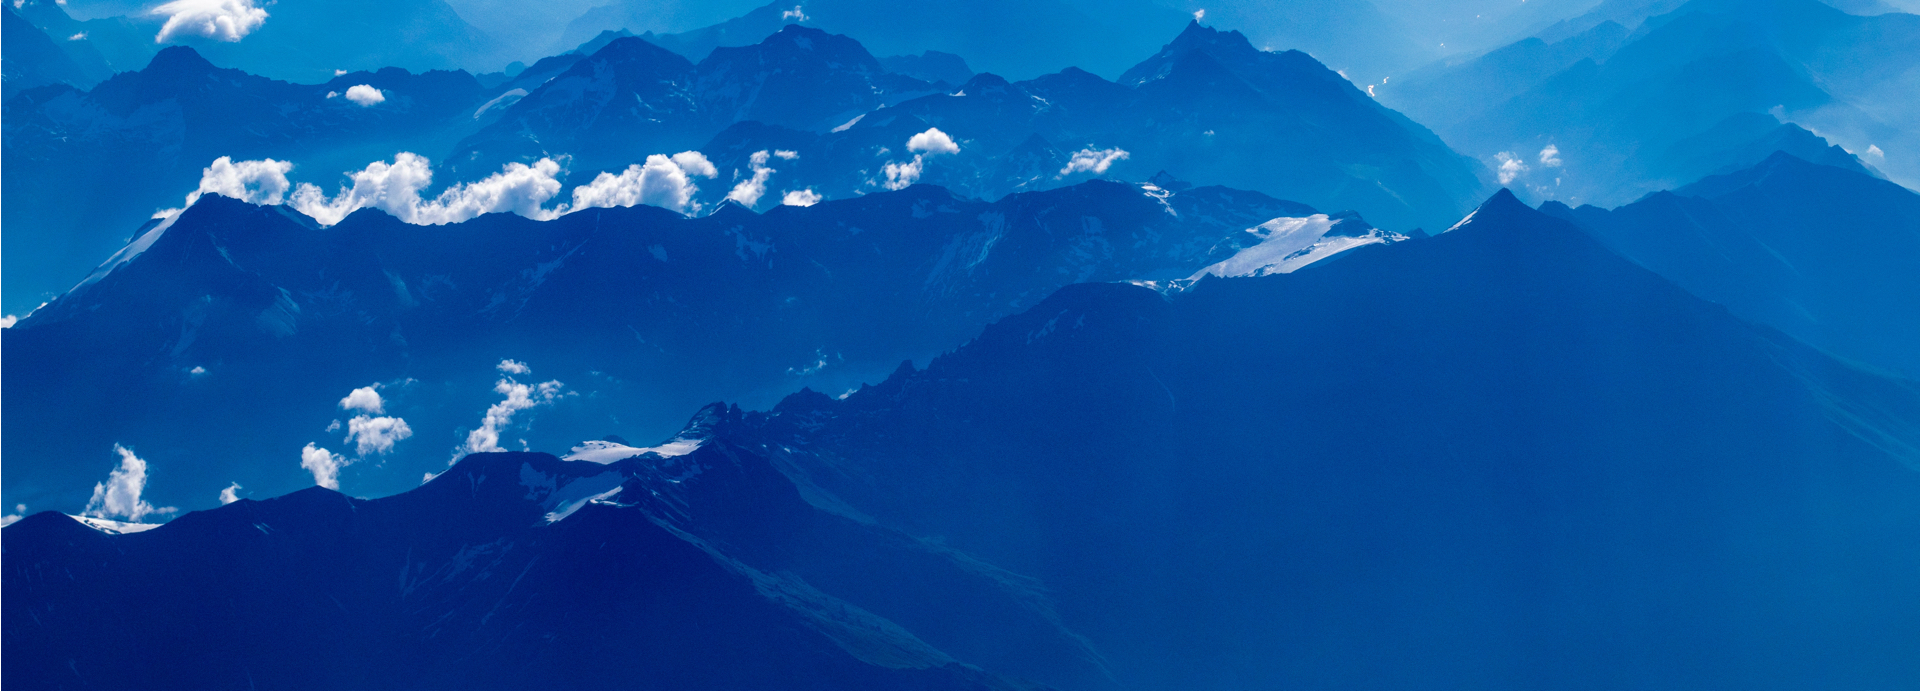
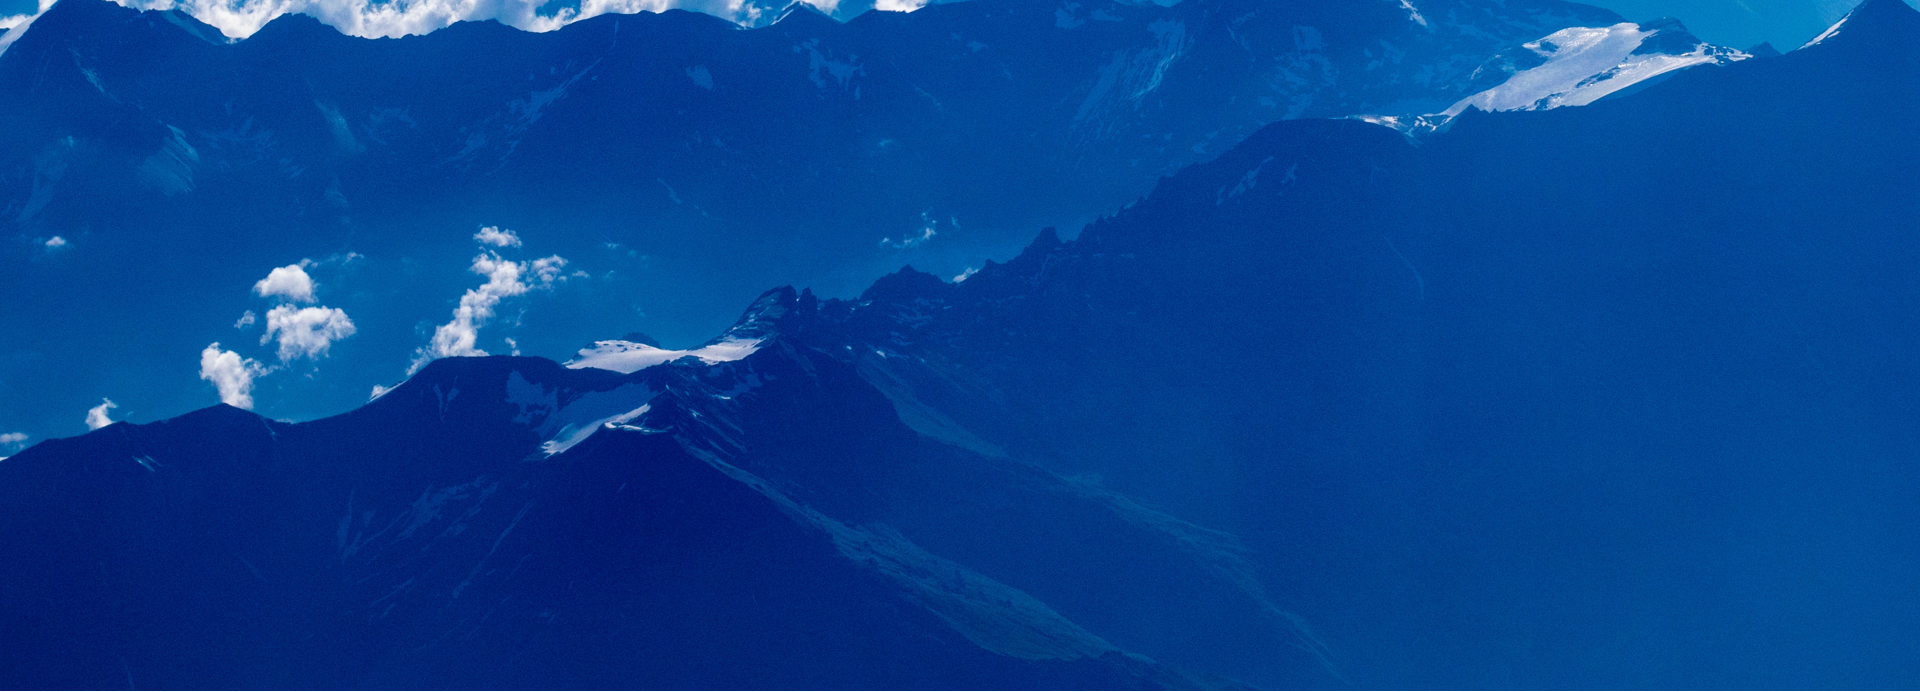
Responsibity adjusted

diff --git a/stylesheets/css/core-min.css b/stylesheets/css/core-min.css
@@ -1,1 +1,1 @@
-html,body,div,span,applet,object,iframe,h1,h2,h3,h4,h5,h6,p,blockquote,pre,a,abbr,acronym,address,big,cite,code,del,dfn,em,img,ins,kbd,q,s,samp,small,strike,strong,sub,sup,tt,var,b,u,i,center,dl,dt,dd,ol,ul,li,fieldset,form,label,legend,table,caption,tbody,tfoot,thead,tr,th,td,article,aside,canvas,details,embed,figure,figcaption,footer,header,hgroup,menu,nav,output,ruby,section,summary,time,mark,audio,video{margin:0;padding:0;border:0;font-size:100%;font:inherit;vertical-align:baseline}article,aside,details,figcaption,figure,footer,header,hgroup,menu,nav,section{display:block}body{line-height:1}ol,ul{list-style:none}blockquote,q{quotes:none}blockquote:before,blockquote:after,q:before,q:after{content:'';content:none}table{border-collapse:collapse;border-spacing:0}@font-face{font-family:'Roboto Condensed';src:url("RobotoCondensed-Regular.woff2") format("woff2"),url("RobotoCondensed-Regular.woff") format("woff");font-weight:normal;font-style:normal}@font-face{font-family:'Roboto Condensed';src:url("RobotoCondensed-Bold.woff2") format("woff2"),url("RobotoCondensed-Bold.woff") format("woff");font-weight:bold;font-style:normal}hr{width:65%;border-top:1px solid #FFF;border-bottom:none}.navBarDD{position:fixed;top:74px;box-sizing:border-box;border-left:1px solid #23272E;border-bottom:1px solid #23272E;border-right:1px solid #23272E;text-transform:capitalize;display:none}.navBarDD ul{font-size:1em;background-color:rgba(0,0,0,0.55)}.navBarDD ul li{padding:10px 15px}#email{text-transform:none}#navBar{height:75px;width:100vw;background-color:rgba(0,0,0,0.55);top:0;position:fixed;display:flex;justify-content:center;align-items:center}#navBar #menuBar{display:flex;flex-direction:row}#navBar #menuBar .menuList{height:auto;width:auto;padding:3% 4%;font-size:1.5em;text-transform:uppercase}#navBar #menuBar .menuList:hover .navBarDD{display:block}a{text-decoration:none}a:link{color:rgba(255,255,255,0.85)}a:visited{color:rgba(255,255,255,0.85)}a:hover{color:#C8D1E8;transition:.75s}#jumbotron{height:700px;width:100%;background:url("imgs/jumbotronOrange.jpg");background-size:cover;display:flex;justify-content:center;align-items:center}#jumbotron #jumbotronContent{height:100%;width:100%;display:flex;justify-content:center;align-items:center;flex-direction:column;color:#E6E6E6}#jumbotron #jumbotronContent div{margin-top:-2%}#jumbotron #jumbotronContent h1{margin-top:1%;font-size:3.7em;font-weight:700}#jumbotron #jumbotronContent h2{margin-top:.5%;font-size:200;font-size:2.7em}#hero{height:690px;width:100%;animation-name:backgroundImgs;animation-duration:20s;animation-iteration-count:infinite;animation-timing-function:ease-in-out;display:flex;justify-content:flex-end;align-items:flex-end}#hero #heroContentWrapper{height:15%;width:15%;margin-right:35%;margin-bottom:7%;position:sticky;display:flex;justify-content:center;align-items:center}#hero #heroContentWrapper #button{position:sticky;height:43px;width:136px;border-radius:15px;margin-top:20%;margin-left:10%;background-color:rgba(255,255,255,0.85);box-shadow:2px 3px rgba(105,105,105,0.5);font-size:1.4em;display:flex;justify-content:center;align-items:center}#hero #heroContentWrapper #button a{text-decoration:none;transition:.5s}#hero #heroContentWrapper #button a:link{color:#596994}#hero #heroContentWrapper #button a:visited{color:#596994}#hero #heroContentWrapper #button a:hover{color:#000;transition:.5s}@keyframes backgroundImgs{0%{background:url("imgs/hero-1.jpg") no-repeat;background-size:cover;background-position:center;animation-duration:5s}25%{background:url("imgs/hero-4.jpg") no-repeat;background-size:cover;background-position:center;animation-duration:5s}50%{background:url("imgs/hero-2.jpg") no-repeat;background-size:cover;background-position:center;animation-duration:5s}75%{background:url("imgs/hero-3.jpg") no-repeat;background-size:cover;background-position:center;animation-duration:5s}100%{background:url("imgs/hero-1.jpg") no-repeat;background-size:cover;background-position:center;animation-duration:5s}}#heroStatement{height:65%;width:100%;display:flex;justify-content:center;user-select:none}#heroStatement #heroStatementContent{height:100%;width:90%;display:flex;justify-content:center;align-items:center;flex-direction:column;font-size:3em;font-weight:300;line-height:1.4em}#heroStatement #heroStatementContent strong{font-weight:400}#features #featuresContent .featuresContentWrapper .featuresServiceMeter,#features #featuresContent .featuresContentWrapper .featuresDocProduct{height:400px;width:445px;box-shadow:3px 4px rgba(105,105,105,0.5);display:flex;justify-content:center;align-items:center;flex-direction:column}#features #featuresContent .featuresContentWrapper .featuresServiceMeter h1,#features #featuresContent .featuresContentWrapper .featuresDocProduct h1{font-size:2.5em;font-weight:700;text-transform:capitalize}#features #featuresContent .featuresContentWrapper .featuresServiceMeter h1 a,#features #featuresContent .featuresContentWrapper .featuresDocProduct h1 a{text-decoration:none}#features #featuresContent .featuresContentWrapper .featuresServiceMeter h2,#features #featuresContent .featuresContentWrapper .featuresDocProduct h2{font-size:1.5em;font-weight:400}#features{height:900px;width:100%;margin-bottom:4%;display:flex;justify-content:center;align-items:center}#features #featuresContent{height:100%;width:1050px;display:flex;justify-content:space-between;align-items:center;flex-direction:row}#features #featuresContent .featuresContentWrapper{height:100%;width:800px;display:flex;justify-content:space-around;align-items:center;flex-direction:column}#features #featuresContent .featuresContentWrapper .featuresServiceMeter{background-color:#E5EFF7}#features #featuresContent .featuresContentWrapper .featuresServiceMeter div{height:200px;width:200px;margin-bottom:4%}#features #featuresContent .featuresContentWrapper .featuresServiceMeter h1{margin-bottom:1%;transition:.5s}#features #featuresContent .featuresContentWrapper .featuresServiceMeter h1 a:link{color:#030303}#features #featuresContent .featuresContentWrapper .featuresServiceMeter h1 a:visited{color:#030303}#features #featuresContent .featuresContentWrapper .featuresServiceMeter h1 a:hover{color:rgba(0,0,0,0.68);transition:.5s}#features #featuresContent .featuresContentWrapper .featuresDocProduct{background-color:#000}#features #featuresContent .featuresContentWrapper .featuresDocProduct div{margin-top:-7%;height:300px;width:300px}#features #featuresContent .featuresContentWrapper .featuresDocProduct h1{margin-top:-8%;margin-bottom:2%;transition:.5s}#features #featuresContent .featuresContentWrapper .featuresDocProduct h1 a:link{color:#FFF}#features #featuresContent .featuresContentWrapper .featuresDocProduct h1 a:visited{color:#FFF}#features #featuresContent .featuresContentWrapper .featuresDocProduct h1 a:hover{color:rgba(255,255,225,0.98);transition:.5s}#features #featuresContent .featuresContentWrapper .featuresDocProduct h2{color:#FFF}#serviceIcon{background:url("imgs/RmService.png") no-repeat;background-size:contain}#meterIcon{background:url("imgs/RmMeter.png") no-repeat;background-size:contain}#documentIcon{background:url("imgs/RmDocIcon.png") no-repeat;background-size:contain}#productIcon{background:url("imgs/RmManuel.png") no-repeat;background-size:contain}#footer{height:100px;width:100%;border-top:1px solid #000;display:flex;justify-content:space-around}#footer #footerWrapper{height:100%;width:1000px;display:flex;justify-content:space-around;align-items:center;flex-direction:row}#footer #footerWrapper .footerContent{height:100%;width:800px;display:flex;justify-content:space-around;align-items:center}#footer #footerWrapper .footerContent span{margin-right:-30%;transition:.5s}#footer #footerWrapper .footerContent h1{font-size:2em}#footer #footerWrapper .footerContent h1 a:link{color:#030303}#footer #footerWrapper .footerContent h1 a:visited{color:#030303}#footer #footerWrapper .footerContent h1 a:hover{color:#656B6F;transition:.5s}body{height:100vh;width:100vw;font-size:100%;background-color:#FFF;font-family:'Roboto Condensed', sans-serif;font-weight:400;color:black}
+html,body,div,span,applet,object,iframe,h1,h2,h3,h4,h5,h6,p,blockquote,pre,a,abbr,acronym,address,big,cite,code,del,dfn,em,img,ins,kbd,q,s,samp,small,strike,strong,sub,sup,tt,var,b,u,i,center,dl,dt,dd,ol,ul,li,fieldset,form,label,legend,table,caption,tbody,tfoot,thead,tr,th,td,article,aside,canvas,details,embed,figure,figcaption,footer,header,hgroup,menu,nav,output,ruby,section,summary,time,mark,audio,video{margin:0;padding:0;border:0;font-size:100%;font:inherit;vertical-align:baseline}article,aside,details,figcaption,figure,footer,header,hgroup,menu,nav,section{display:block}body{line-height:1}ol,ul{list-style:none}blockquote,q{quotes:none}blockquote:before,blockquote:after,q:before,q:after{content:'';content:none}table{border-collapse:collapse;border-spacing:0}@font-face{font-family:'Roboto Condensed';src:url("RobotoCondensed-Regular.woff2") format("woff2"),url("RobotoCondensed-Regular.woff") format("woff");font-weight:normal;font-style:normal}@font-face{font-family:'Roboto Condensed';src:url("RobotoCondensed-Bold.woff2") format("woff2"),url("RobotoCondensed-Bold.woff") format("woff");font-weight:bold;font-style:normal}hr{width:65%;border-top:1px solid #FFF;border-bottom:none}.navBarDD{position:fixed;top:74px;box-sizing:border-box;border-left:1px solid #23272E;border-bottom:1px solid #23272E;border-right:1px solid #23272E;text-transform:capitalize;display:none}.navBarDD ul{font-size:1em;background-color:rgba(0,0,0,0.55)}.navBarDD ul li{padding:10px 15px}#email{text-transform:none}#navBar{height:75px;width:100vw;background-color:rgba(0,0,0,0.55);top:0;position:fixed;display:flex;justify-content:center;align-items:center}#navBar #menuBar{display:flex;flex-direction:row}#navBar #menuBar .menuList{height:auto;width:auto;padding:3% 4%;font-size:1.5em;text-transform:uppercase}#navBar #menuBar .menuList:hover .navBarDD{display:block}a{text-decoration:none}a:link{color:rgba(255,255,255,0.85)}a:visited{color:rgba(255,255,255,0.85)}a:hover{color:#C8D1E8;transition:.75s}#jumbotron{height:600px;width:100%;background:url("imgs/jumbotron.jpg");background-size:cover;display:flex;justify-content:center;align-items:center}#jumbotron #jumbotronContent{height:100%;width:100%;display:flex;justify-content:center;align-items:center;flex-direction:column;color:#E6E6E6}#jumbotron #jumbotronContent div{margin-top:3%}#jumbotron #jumbotronContent h1{margin-top:1%;font-size:3.7em;font-weight:700}#jumbotron #jumbotronContent h2{margin-top:.5%;font-size:200;font-size:2.7em}#hero{height:690px;width:100%;animation-name:backgroundImgs;animation-duration:12s;animation-iteration-count:infinite;animation-timing-function:ease-in-out;display:flex;justify-content:flex-end;align-items:flex-end}@media (max-width: 1000px){#hero{height:375px}}#hero #heroContentWrapper{height:15%;width:15%;margin-right:35%;margin-bottom:7%;position:sticky;display:flex;justify-content:center;align-items:center}#hero #heroContentWrapper #button{position:sticky;height:43px;width:136px;border-radius:15px;margin-top:20%;margin-left:10%;background-color:rgba(255,255,255,0.85);box-shadow:2px 3px rgba(105,105,105,0.5);font-size:1.4em;display:flex;justify-content:center;align-items:center}#hero #heroContentWrapper #button a{text-decoration:none;transition:.5s}#hero #heroContentWrapper #button a:link{color:#596994}#hero #heroContentWrapper #button a:visited{color:#596994}#hero #heroContentWrapper #button a:hover{color:#000;transition:.5s}@keyframes backgroundImgs{0%{background:url("imgs/hero-1.jpg") no-repeat;background-size:cover;background-position:center;animation-duration:5s}25%{background:url("imgs/hero-4.jpg") no-repeat;background-size:cover;background-position:center;animation-duration:5s}50%{background:url("imgs/hero-2.jpg") no-repeat;background-size:cover;background-position:center;animation-duration:5s}75%{background:url("imgs/hero-3.jpg") no-repeat;background-size:cover;background-position:center;animation-duration:5s}100%{background:url("imgs/hero-1.jpg") no-repeat;background-size:cover;background-position:center;animation-duration:5s}}#heroStatement{height:65%;width:100%;display:flex;justify-content:center;align-items:center;user-select:none}#heroStatement #heroStatementContent{height:100%;width:80%;display:flex;justify-content:center;align-items:center;flex-direction:column;font-size:3em;font-weight:300;line-height:1.4em}@media (max-width: 1200px){#heroStatement #heroStatementContent{font-size:2em;min-width:1200px}}#heroStatement #heroStatementContent strong{font-weight:400}@media only screen and (max-width: 400px){font-size:1em}#features #featuresContent .featuresContentWrapper .featuresServiceMeter,#features #featuresContent .featuresContentWrapper .featuresDocProduct{height:400px;width:445px;box-shadow:3px 4px rgba(105,105,105,0.5);display:flex;justify-content:center;align-items:center;flex-direction:column}#features #featuresContent .featuresContentWrapper .featuresServiceMeter h1,#features #featuresContent .featuresContentWrapper .featuresDocProduct h1{font-size:2.5em;font-weight:700;text-transform:capitalize}#features #featuresContent .featuresContentWrapper .featuresServiceMeter h1 a,#features #featuresContent .featuresContentWrapper .featuresDocProduct h1 a{text-decoration:none}#features #featuresContent .featuresContentWrapper .featuresServiceMeter h2,#features #featuresContent .featuresContentWrapper .featuresDocProduct h2{font-size:1.5em;font-weight:400}#features{height:900px;width:100%;margin-bottom:4%;display:flex;justify-content:center;align-items:center}#features #featuresContent{height:100%;width:1050px;display:flex;justify-content:space-between;align-items:center;flex-direction:row}#features #featuresContent .featuresContentWrapper{height:100%;width:800px;display:flex;justify-content:space-around;align-items:center;flex-direction:column}#features #featuresContent .featuresContentWrapper .featuresServiceMeter{background-color:#E5EFF7}#features #featuresContent .featuresContentWrapper .featuresServiceMeter div{height:200px;width:200px;margin-bottom:4%}#features #featuresContent .featuresContentWrapper .featuresServiceMeter h1{margin-bottom:1%;transition:.5s}#features #featuresContent .featuresContentWrapper .featuresServiceMeter h1 a:link{color:#030303}#features #featuresContent .featuresContentWrapper .featuresServiceMeter h1 a:visited{color:#030303}#features #featuresContent .featuresContentWrapper .featuresServiceMeter h1 a:hover{color:rgba(0,0,0,0.68);transition:.5s}#features #featuresContent .featuresContentWrapper .featuresDocProduct{background-color:#000}#features #featuresContent .featuresContentWrapper .featuresDocProduct div{margin-top:-7%;height:300px;width:300px}#features #featuresContent .featuresContentWrapper .featuresDocProduct h1{margin-top:-8%;margin-bottom:2%;transition:.5s}#features #featuresContent .featuresContentWrapper .featuresDocProduct h1 a:link{color:#FFF}#features #featuresContent .featuresContentWrapper .featuresDocProduct h1 a:visited{color:#FFF}#features #featuresContent .featuresContentWrapper .featuresDocProduct h1 a:hover{color:rgba(255,255,225,0.98);transition:.5s}#features #featuresContent .featuresContentWrapper .featuresDocProduct h2{color:#FFF}#serviceIcon{background:url("imgs/RmService.png") no-repeat;background-size:contain}#meterIcon{background:url("imgs/RmMeter.png") no-repeat;background-size:contain}#documentIcon{background:url("imgs/RmDocIcon.png") no-repeat;background-size:contain}#productIcon{background:url("imgs/RmManuel.png") no-repeat;background-size:contain}#footer{height:100px;width:100%;border-top:1px solid #000;display:flex;justify-content:space-around}#footer #footerWrapper{height:100%;width:1000px;display:flex;justify-content:space-around;align-items:center;flex-direction:row}#footer #footerWrapper .footerContent{height:100%;width:800px;display:flex;justify-content:space-around;align-items:center}#footer #footerWrapper .footerContent span{margin-right:-30%;transition:.5s}#footer #footerWrapper .footerContent h1{font-size:2em}#footer #footerWrapper .footerContent h1 a:link{color:#030303}#footer #footerWrapper .footerContent h1 a:visited{color:#030303}#footer #footerWrapper .footerContent h1 a:hover{color:#656B6F;transition:.5s}body{height:100vh;width:100vw;font-size:100%;background-color:#FFF;font-family:'Roboto Condensed', sans-serif;font-weight:400;color:black}

diff --git a/index.html b/index.html
@@ -19,7 +19,7 @@
       <div id="jumbotronContent">
         <!-- RM Logo -->
         <div><?xml version="1.0" encoding="UTF-8"?>
-        <svg width="310px" height="310px" viewBox="0 0 310 310" version="1.1" xmlns="http://www.w3.org/2000/svg" xmlns:xlink="http://www.w3.org/1999/xlink">
+        <svg width="200px" height="200px" viewBox="0 0 310 310" version="1.1" xmlns="http://www.w3.org/2000/svg" xmlns:xlink="http://www.w3.org/1999/xlink">
             <!-- Generator: Sketch 49.1 (51147) - http://www.bohemiancoding.com/sketch -->
             <title>FaviconRMred</title>
             <desc>Created with Sketch.</desc>
@@ -27,7 +27,7 @@
             <g id="FaviconRM" stroke="none" stroke-width="1" fill="none" fill-rule="evenodd">
                 <g id="icon" transform="translate(0.000000, -103.000000)">
                     <rect id="background" fill="#991B1F" x="0" y="103" width="310" height="310" rx="45"></rect>
-                    <text id="R" font-family="Times-Bold, Times" font-size="339" font-weight="bold" letter-spacing="-11.6293325" fill="#F9F6FC">
+                    <text id="R" font-family="Times-Bold, Times" font-size="329" font-weight="bold" letter-spacing="-11.6293325" fill="#F9F6FC">
                         <tspan x="35" y="370">R</tspan>
                     </text>
                 </g>
@@ -68,7 +68,7 @@
             </g>
         </svg><strong>ocky&nbsp;Mountain&nbsp;Business&nbsp;Equipment</strong></span>
         <span>is locally owned and operated.</span>
-        <span>Making a <strong>beneficial</strong> and real <strong>impact</strong> to the businesses</span>
+        <span>Making&nbsp;a&nbsp;<strong>beneficial</strong>&nbsp;and real&nbsp;<strong>impact</strong>&nbsp;to&nbsp;the&nbsp;businesses</span>
         <span>we <strong>serve</strong> is our <strong>lifeline.</strong></span>
         <span>We reach our <strong>goals</strong> by providing <strong>outstanding</strong> service,</span>
         <span>product <strong>reliability</strong>

diff --git a/stylesheets/sass/components/_heroRMstatment.scss b/stylesheets/sass/components/_heroRMstatment.scss
@@ -1,5 +1,9 @@
 //***** JUMBOTRON SASS PARTIAL *****
 
+
+//***** media Media Queries
+
+
 //***** IDs
 //Hero RM Statement text
 #heroStatement{
@@ -7,20 +11,29 @@
   width: 100%;
   display: flex;
   justify-content: center;
+  align-items: center;
   user-select: none;
   //Hero Content Wrapper
   #heroStatementContent{
     height: 100%;
-    width: 90%;
+    width: 80%;
     display: flex;
     justify-content: center;
     align-items: center;
     flex-direction: column;
     font-size: 3em;
+    @media (max-width: 1200px){
+      font-size: 2em;
+      min-width: 1200px;
+    }
     font-weight: 300;
     line-height: 1.4em;
     strong{
       font-weight: 400;
     }
   }
+}
+
+@media only screen and (max-width: 400px){
+  font-size: 1em;
 }

diff --git a/stylesheets/sass/components/_jumbotron.scss b/stylesheets/sass/components/_jumbotron.scss
@@ -3,10 +3,9 @@
 //***** IDs
 //jumboTron
 #jumbotron{
-  height: 700px;
+  height: 600px;
   width: 100%;
-
-  background: url('imgs/jumbotronOrange.jpg');
+  background: url('imgs/jumbotron.jpg');
   background-size: cover;
   display: flex;
   justify-content: center;
@@ -22,7 +21,7 @@
     color: #E6E6E6;
     //RM logo
     div{
-      margin-top: -2%;
+      margin-top: 3%;
     }
     //Headers text
     h1{

diff --git a/stylesheets/sass/components/_hero.scss b/stylesheets/sass/components/_hero.scss
@@ -7,9 +7,12 @@
 #hero{
   height: 690px;
   width: 100%;
+  @media (max-width: 1000px){
+    height: 375px;
+  }
   //Background images animation
   animation-name: backgroundImgs;
-  animation-duration: 20s;
+  animation-duration: 12s;
   animation-iteration-count: infinite;
   animation-timing-function:ease-in-out;
   display:flex;
